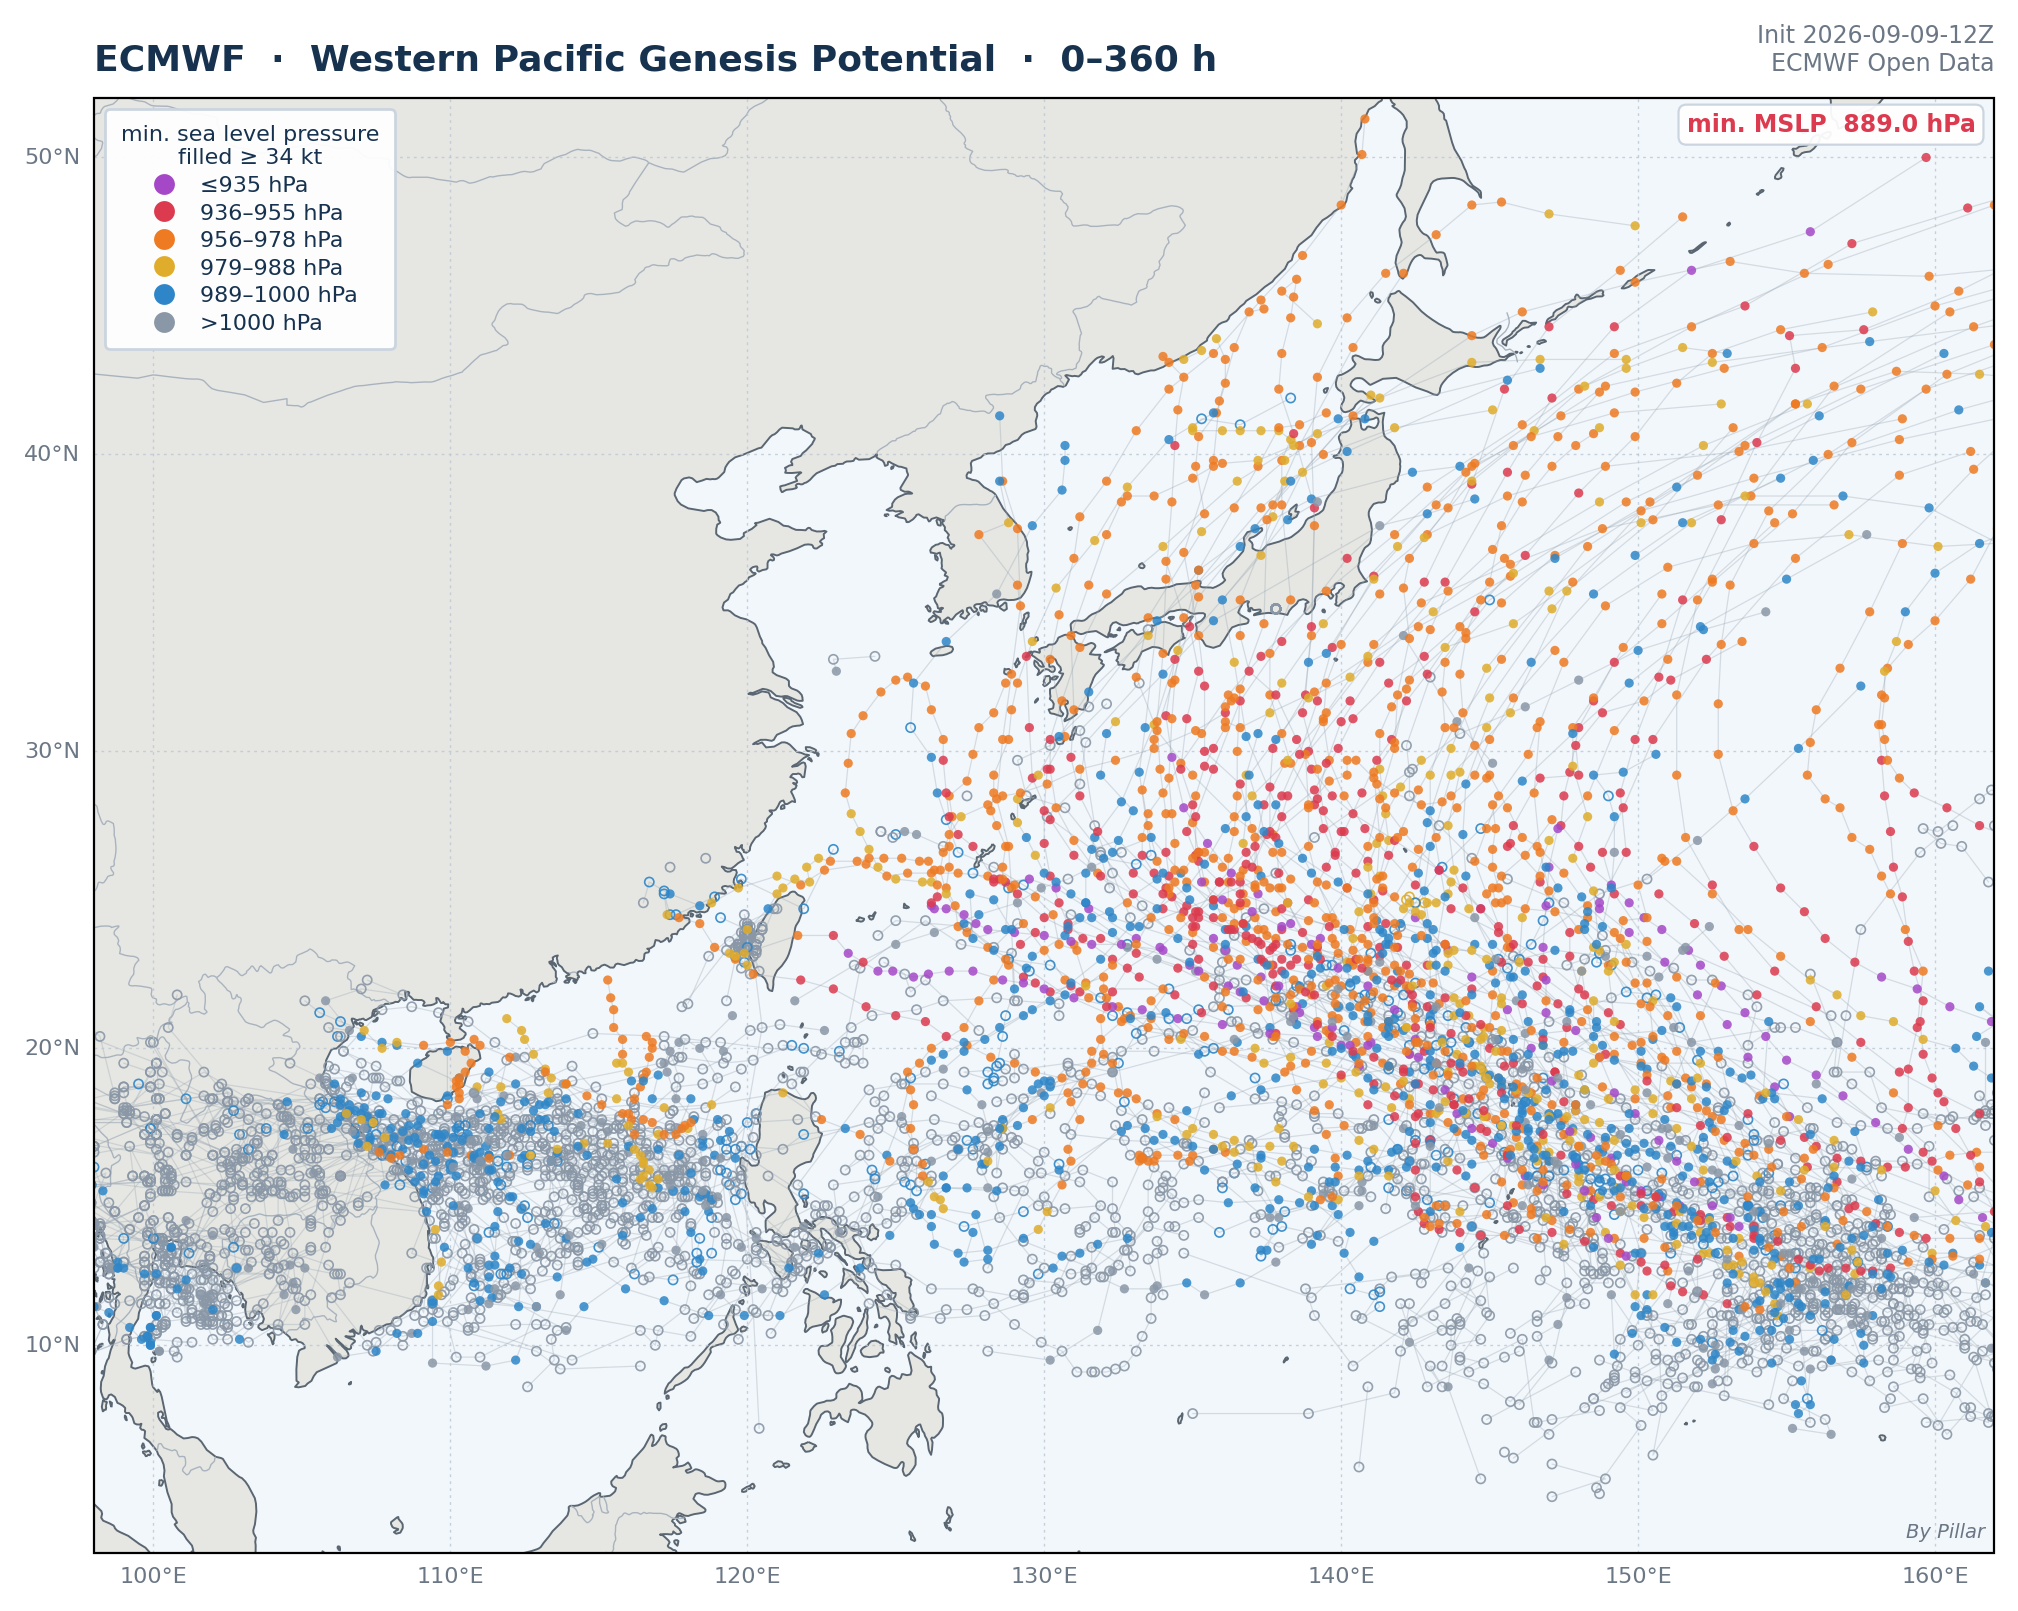
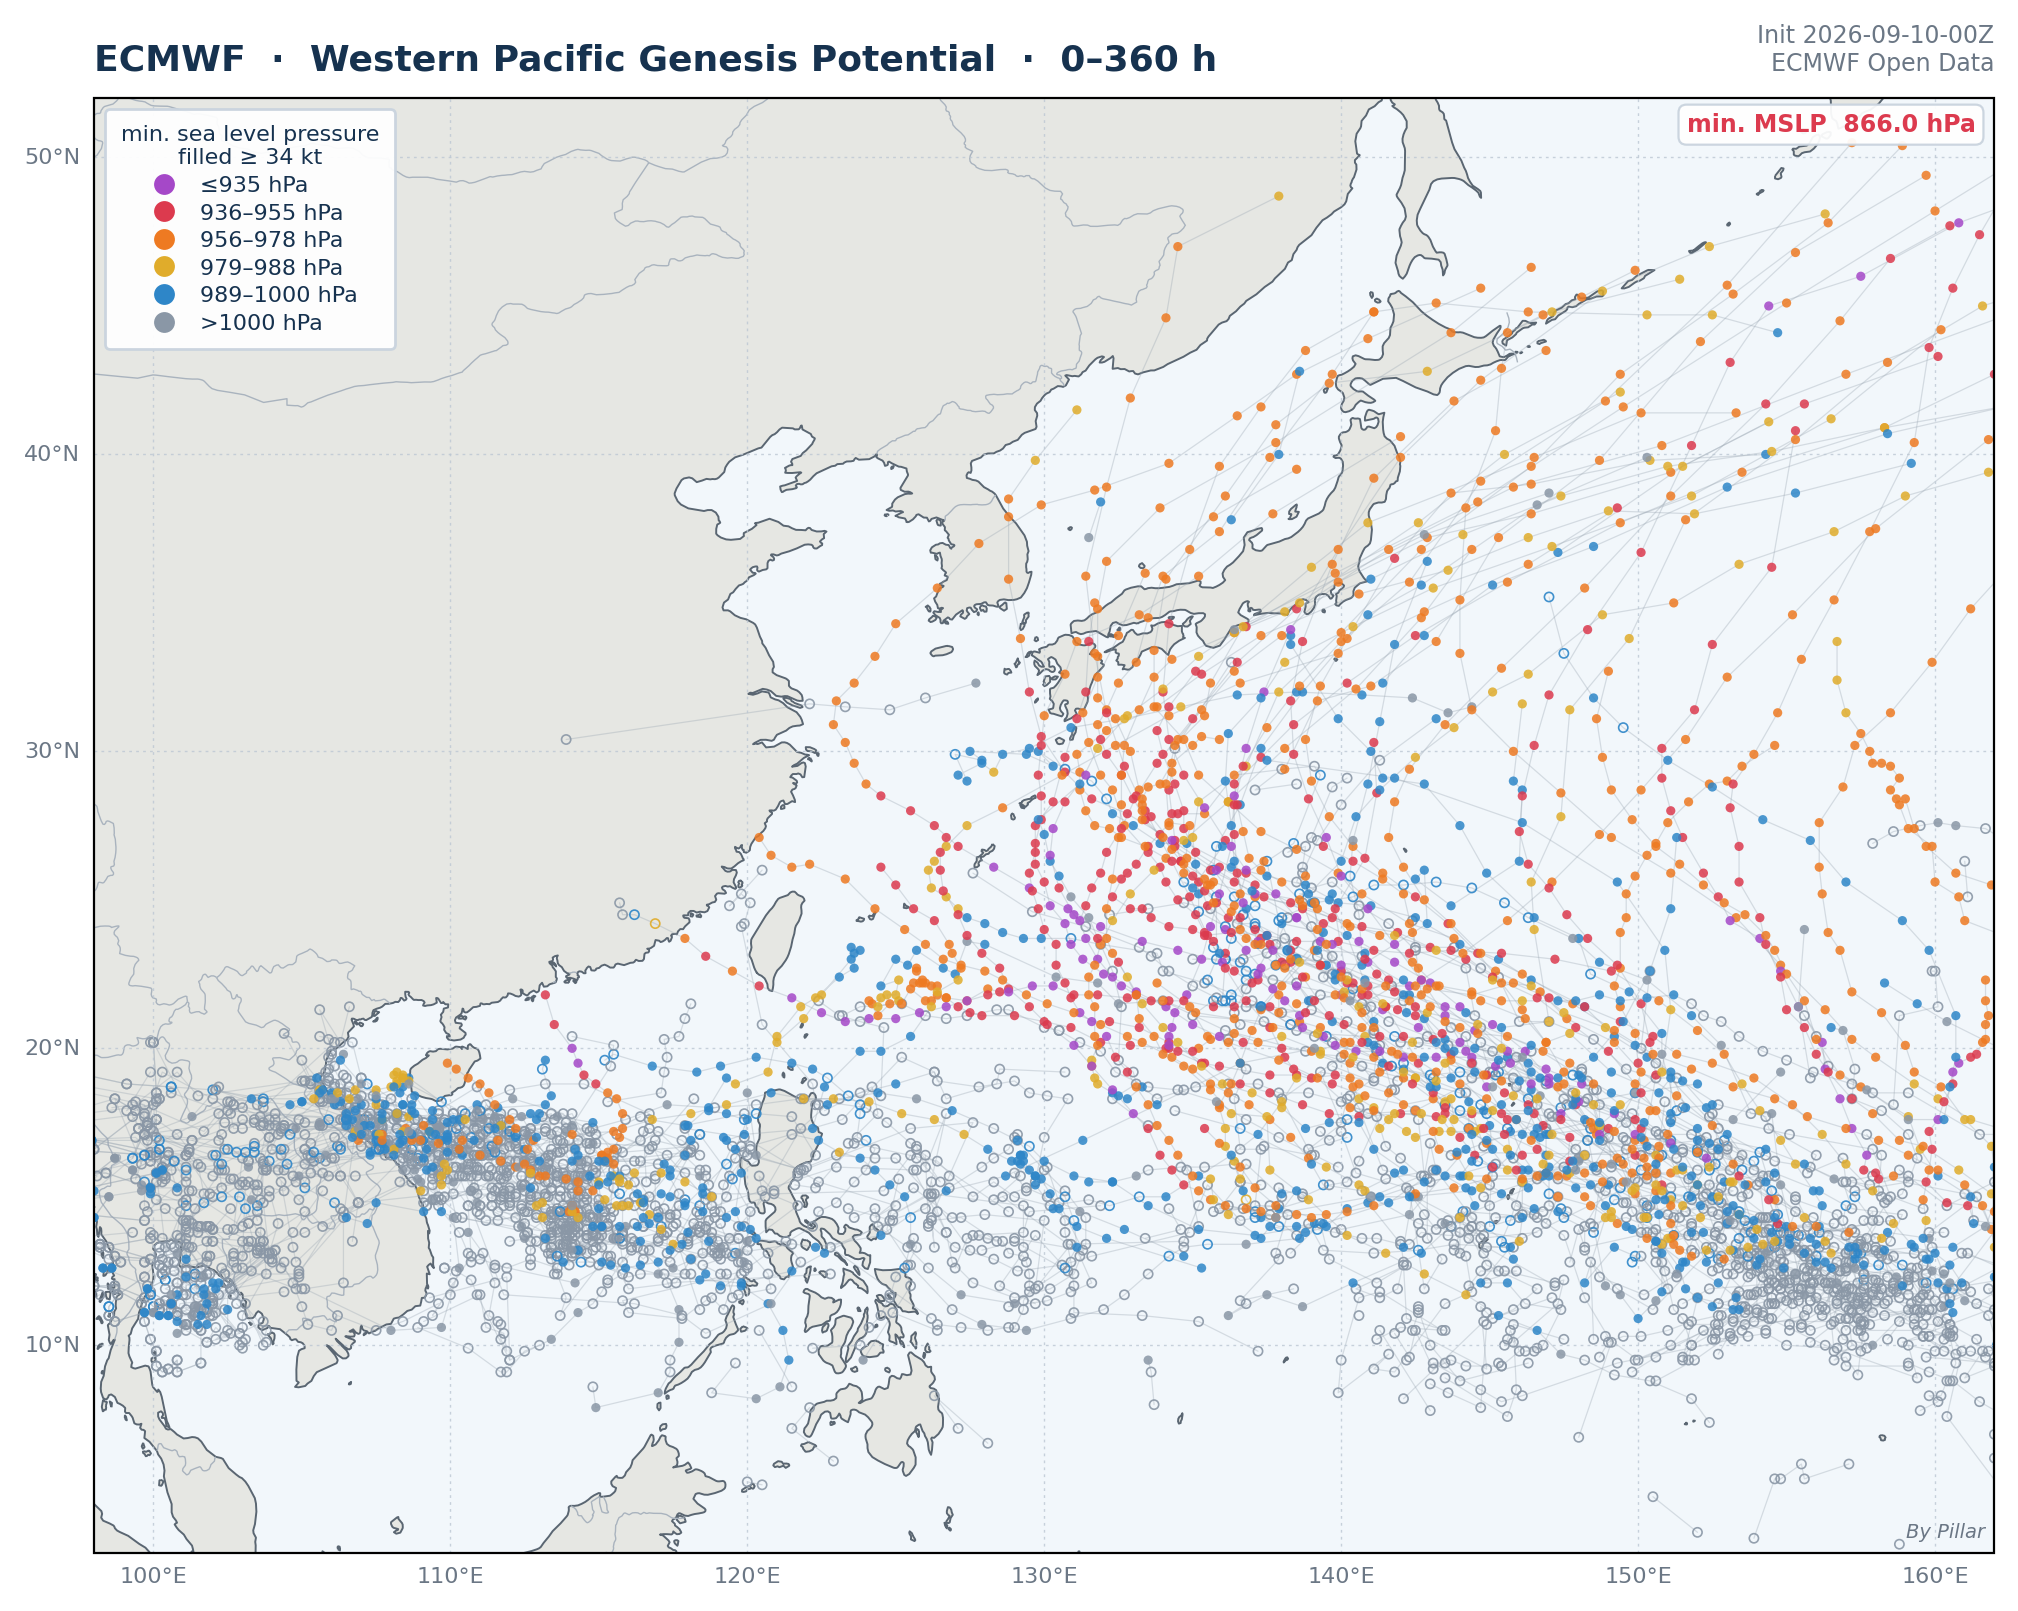
Auto update: 2026-09-10 13:30 UTC

diff --git a/docs/index.html b/docs/index.html
@@ -531,7 +531,7 @@
         <div class="header-actions">
             <div class="update-badge">
                 <span class="update-dot"></span>
-                <span data-i18n="header.updated">Updated</span>: 2026-09-10 21:03:04
+                <span data-i18n="header.updated">Updated</span>: 2026-09-10 21:30:51
             </div>
             <button class="theme-btn" onclick="toggleTheme()" id="theme-btn">🌙 Dark</button>
             <button class="theme-btn" onclick="toggleLang()" id="lang-btn"

diff --git a/forecast.py b/forecast.py
@@ -1866,6 +1866,11 @@ def _resolve_cycle_ecmwf(cfg: dict) -> tuple[datetime, str] | tuple[None, None]:
         path = os.path.join(cfg["ensemble_dir"], f"{cfg['local_prefix']}_{stamp}_paired.csv")
         if os.path.exists(path):
             return cycle, path
+        # 潛勢檔在、系集檔不在 ⇒ 這期先前已經解過，當時對不到任何追蹤中的颱風。
+        # BUFR 是靜態的，重下也是同樣結果，直接往前一期，省掉一次 1 MB 下載。
+        if os.path.exists(os.path.join(
+                cfg["cyc_dir"], f"{cfg['local_prefix']}_{stamp}_cyclogenesis.csv")):
+            continue
         try:
             ok = ecmwf_bufr.fetch_cycle(cfg["ecmwf_model"], cycle, cfg,
                                         ref_mean_dir=MEAN_DIR, ref_prefix="WNC2-r2",
@@ -1878,18 +1883,47 @@ def _resolve_cycle_ecmwf(cfg: dict) -> tuple[datetime, str] | tuple[None, None]:
     return None, None
 
 
+def _cycle_from_stamp(name: str) -> datetime | None:
+    """檔名（或時間戳）→ cycle，與 _cycle_stamp 互為反向；解不出來回 None。"""
+    m = re.search(r"(\d{4})_(\d{2})_(\d{2})T(\d{2})_00", os.path.basename(name))
+    if not m:
+        return None
+    y, mo, d, h = (int(g) for g in m.groups())
+    return datetime(y, mo, d, h, tzinfo=timezone.utc)
+
+
+def _latest_local_cyclogenesis(cfg: dict) -> tuple[datetime, str] | tuple[None, None]:
+    """cyc_dir 內最新一期潛勢檔的 (cycle, 路徑)；檔名字典序即時間序。
+
+    ECMWF 專用。潛勢總覽與系集檔的 cycle 會脫鉤：西北太平洋淨空時 ecmwf_bufr
+    對不到颱風編號、不寫系集檔，但潛勢檔照樣逐期寫出。潛勢圖要跟著自己這份
+    檔案的時間走，綁系集檔的 cycle 會讓它一起卡在最後一顆颱風消散的那期。
+    """
+    d = cfg.get("cyc_dir")
+    if not d or not os.path.isdir(d):
+        return None, None
+    names = sorted(n for n in os.listdir(d)
+                   if n.startswith(f"{cfg['local_prefix']}_")
+                   and n.endswith("_cyclogenesis.csv"))
+    if not names:
+        return None, None
+    return _cycle_from_stamp(names[-1]), os.path.join(d, names[-1])
+
+
 def _get_cyclogenesis_csv(cfg: dict, stamp: str) -> str | None:
     """取得潛勢 CSV：優先用當期檔，否則下載；下載失敗才退而用目錄中最新檔。"""
     if not cfg.get("cyc_dir"):
         return None
     display = cfg["display"]
     if cfg.get("fetcher") == "ecmwf":
-        # ECMWF 的潛勢檔是解 BUFR 時一併寫出的，沒有可下載的遠端來源
-        path = os.path.join(cfg["cyc_dir"], f"{cfg['local_prefix']}_{stamp}_cyclogenesis.csv")
-        if os.path.exists(path):
-            return path
-        print(f"[{display}-GENESIS] 找不到當期潛勢檔: {os.path.basename(path)}")
-        return None
+        # ECMWF 的潛勢檔是解 BUFR 時一併寫出的，沒有可下載的遠端來源；
+        # 也不綁當期 stamp，理由見 _latest_local_cyclogenesis
+        _, path = _latest_local_cyclogenesis(cfg)
+        if path is None:
+            print(f"[{display}-GENESIS] {cfg['cyc_dir']} 內無可用潛勢檔")
+            return None
+        print(f"[{display}-GENESIS] 使用潛勢檔: {os.path.basename(path)}")
+        return path
     path = os.path.join(cfg["cyc_dir"], f"{cfg['local_prefix']}_{stamp}_cyclogenesis.csv")
     if os.path.exists(path):
         print(f"[{display}-GENESIS] 使用當期潛勢檔: {path}")
@@ -2082,21 +2116,31 @@ def _process_model(cfg: dict, get_jtwc_text, download_jtwc_img) -> tuple[str | N
     print(f"\n[{display}] === 開始處理 {display} 模式 ===")
 
     cycle, csv_path = _resolve_cycle(cfg)
+    if cycle is None and cfg.get("fetcher") == "ecmwf":
+        # 西北太平洋一顆颱風都沒有時，ECMWF 五期全都對不到編號、寫不出系集檔，
+        # 但潛勢檔仍逐期產出。這不是失敗，只是本期沒有颱風可畫，照樣往下走，
+        # 讓潛勢總覽跟著最新一期更新（早期版本在這裡直接拋錯，整個模式消失）。
+        cycle, _ = _latest_local_cyclogenesis(cfg)
+        if cycle is not None:
+            print(f"[{display}] 本期無追蹤中的颱風，僅更新潛勢總覽")
     if cycle is None:
         raise RuntimeError(f"無法取得最近 5 個 cycle 的 {display} ensemble CSV")
     if cycle != _latest_cycle():
         print(f"[{display}] 回退至 cycle: {cycle.strftime('%Y-%m-%d %HZ')}")
     stamp = _cycle_stamp(cycle)
 
-    # 下載 Ensemble Mean 檔
+    # 下載 Ensemble Mean 檔（ECMWF 的平均是解 BUFR 時一併算出的，沒有遠端來源）
     mean_csv_path = os.path.join(cfg["mean_dir"], f"{cfg['local_prefix']}_{stamp}_paired.csv")
-    if not os.path.exists(mean_csv_path):
+    if not os.path.exists(mean_csv_path) and cfg.get("fetcher") != "ecmwf":
         _download_file(_remote_csv_url(cfg["remote"], "ensemble_mean/paired", stamp),
                        mean_csv_path, f"{display}-MEAN")
 
-    # 用當前 cycle 的 mean CSV 偵測颱風，確保不會抓到舊資料
-    track_ids = _auto_detect_track_ids(cfg["mean_dir"], preferred_path=mean_csv_path,
-                                       model_prefix=cfg["local_prefix"])
+    # 用當前 cycle 的 mean CSV 偵測颱風，確保不會抓到舊資料。
+    # csv_path 是 None 代表這期根本沒有系集檔，此時不能讓 _auto_detect_track_ids
+    # 退去讀目錄裡的舊檔，否則會拿早就消散的颱風重畫一次路徑圖。
+    track_ids = (_auto_detect_track_ids(cfg["mean_dir"], preferred_path=mean_csv_path,
+                                        model_prefix=cfg["local_prefix"])
+                 if csv_path else [])
     jtwc_forecast_urls, jtwc_text_urls = _build_jtwc_urls(track_ids)
 
     # 先清掉本模式已不再追蹤的颱風產物，再產生本次結果
@@ -2112,9 +2156,11 @@ def _process_model(cfg: dict, get_jtwc_text, download_jtwc_img) -> tuple[str | N
     cyc_csv_path = _get_cyclogenesis_csv(cfg, stamp)
     if cfg.get("genesis_png") and cyc_csv_path and os.path.exists(cyc_csv_path):
         print(f"[{display}-GENESIS] 正在繪製西太平洋潛勢預報圖...")
+        # 時距用潛勢檔自己的 cycle 推：ECMWF 兩邊的 cycle 會脫鉤，而 IFS 的
+        # 06Z／18Z 只跑 144h，拿系集檔的 cycle 去算會在標題寫錯時距
         genesis_map_path = plot_genesis_potential_map(
             cyc_csv_path, os.path.join(OUTPUT_DIR, cfg["genesis_png"]), model_name=display,
-            range_hours=_genesis_range_hours(cfg, cycle))
+            range_hours=_genesis_range_hours(cfg, _cycle_from_stamp(cyc_csv_path) or cycle))
 
     # 逐颱風產出：路徑圖、JTWC 官方圖、動畫幀序列與 GIF
     storms = []

diff --git a/ecmwf_bufr.py b/ecmwf_bufr.py
@@ -349,8 +349,10 @@ def fetch_cycle(model: str, cycle: datetime, cfg: dict,
                 ref_mean_dir: str, ref_prefix: str, scratch_dir: str) -> bool:
     """下載並轉出某個 cycle 的四份 CSV（系集／平均／決定報／潛勢總覽）。
 
-    回傳 False 表示該 cycle 尚未上架或對不到追蹤中的颱風，呼叫端應往前一個
-    cycle 再試。系集檔缺就整期跳過；決定報缺只是少一條線，不影響其餘產出。
+    回傳 False 表示這一期沒有可用的系集檔（BUFR 尚未上架，或對不到任何追蹤
+    中的颱風），呼叫端應往前一個 cycle 再試。潛勢總覽不受此影響：它畫的是模式
+    自己生出來的擾動，與現行有沒有颱風無關，只要 BUFR 解得開就逐期寫出。
+    決定報缺只是少一條線，不影響其餘產出。
     """
     stamp = cycle.strftime("%Y_%m_%dT%H_00")
     prefix = cfg["local_prefix"]
@@ -378,9 +380,6 @@ def fetch_cycle(model: str, cycle: datetime, cfg: dict,
 
     ref_pos = _reference_positions(ref_mean_dir, ref_prefix, cycle)
     mapping = _match_track_ids(tracks, ref_pos)
-    if not mapping:
-        print(f"[{model}] 無法對應到任何追蹤中的颱風，跳過此 cycle")
-        return False
 
     # 潛勢總覽（Ensemble Overview）：ECMWF Open Data 沒有對應 DeepMind
     # cyclogenesis 的獨立產品，但 tf.bufr 本來就把模式自己生出來的擾動
@@ -389,9 +388,17 @@ def fetch_cycle(model: str, cycle: datetime, cfg: dict,
     # 候選」並存（實測 WP222026 與編號 1、2、3… 同在一檔），故這裡照樣全收，
     # 對不到現行颱風的就沿用 ECMWF 自己的暴風代號當 track_id。
     # 西太平洋範圍的篩選交給 plot_genesis_potential_map，這裡不預先裁切。
+    # 這段刻意排在編號對應成敗之前。西北太平洋淨空時 mapping 會是空的，但
+    # BUFR 裡的生成候選照樣有值（實測 WP222026 消散後的 2026-09-10 00Z，AIFS
+    # 在西太範圍內仍有 19 個候選系統、5700 個路徑點）。早期版本把整期跳掉，
+    # 潛勢圖就停在最後一顆颱風消散的那期，看起來像 AIFS／EC 斷更。
     genesis = tracks.copy()
     genesis["track_id"] = genesis["storm_id"].map(lambda s: mapping.get(s, s))
     _write_csv(_to_paired(genesis, cycle), cyc_path, f"{model} cyclogenesis")
+
+    if not mapping:
+        print(f"[{model}] 無法對應到任何追蹤中的颱風，本期僅輸出潛勢總覽")
+        return False
 
     tracks["track_id"] = tracks["storm_id"].map(mapping)
     tracks = tracks.dropna(subset=["track_id"]).copy()
